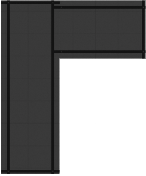
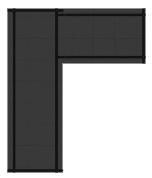
customization v5

Changed region(s): [[0.0, 0.0, 1.0, 0.9943]]

diff --git a/makeplanstyle.css b/makeplanstyle.css
@@ -70,11 +70,8 @@ p {
   border-style: solid;
   border-color: black;
   border-width: 5px;
-  height: 145mm;
-  width: 145mm;
-  background-image:
-      linear-gradient(to right, grey 1px, transparent 1px),
-      linear-gradient(to bottom, grey 1px, transparent 1px);
+  height: 140mm;
+  width: 140mm;
   border-radius: 5px;
   transition: transform 0.5s;
 
@@ -115,7 +112,7 @@ p {
   transition: background-color 0.3s;
 }
 .element-trash{
-margin-top: 298px;
+margin-top: 280px;
 margin-left: 30px;
 color: white;
 background: maroon;

diff --git a/makeplan5x5.php b/makeplan5x5.php
@@ -46,13 +46,13 @@ require_once('partials/_head.php');
                           <div class="content" id = "scroll-box" style = "display:none">
                             <div class="drag-element-source drag-element">
                               <div class="rect" style = "margin-bottom: 110px;"><img src="assets/img/items/cubicle.png" draggable="false"/>  
-                                <div class="middle desc" style = "padding-left: 130px; padding-top: 100px;"> <b>L-shape Cubicle </b> <br>200cmX185cm</div>
+                                <div class="middle desc" style = "padding-left: 110px; padding-top: 90px;"> <b>L-shape Cubicle </b> <br>200cmX185cm</div>
                               </div>
                             </div>
                 
                             <div class="drag-element-source drag-element">
-                              <div class="rect" style = "margin-left: -7px"><img src="assets/img/items/U-shaped_cubicle.png" draggable="false"/>
-                              <div class="middle desc" style = "margin-left:60px; margin-top: 80px"> <b>U-shape Cubicle </b> <br>260cmX185cm</div>
+                              <div class="rect" style = "margin-left: 2px"><img src="assets/img/items/U-shaped_cubicle.png" draggable="false"/>
+                              <div class="middle desc" style = "margin-left:45px; margin-top: 80px"> <b>U-shape Cubicle </b> <br>260cmX185cm</div>
                             </div>
                             </div>
                         </div>
@@ -68,25 +68,31 @@ require_once('partials/_head.php');
 
                             <div class="drag-element-source drag-element">
                               <div class="rect" style = "margin-top: 70px; margin-left: -3px"><img src="assets/img/items/U-table.png" draggable="false"/>
-                              <div class="middle desc" style = "margin-left: 55px; margin-top: 30px"> <b>U-shaped Table </b> <br>196cmX155cm</div>
+                              <div class="middle desc" style = "margin-left: 55px; margin-top: 30px"> <b>U-shaped Table </b> <br>195cmX155cm</div>
                             </div>
                             </div>
 
                             <div class="drag-element-source drag-element">
-                              <div class="rect" style = "margin-top: 80px; margin-left:-3px;"><img src="assets/img/items/office_table_chair.png" draggable="false"/>
-                              <div class="middle desc" style = "margin-left: 45px; margin-top: 35px"> <b>Office Table w/ Chair </b> <br>162cmX112cm</div>
-                            </div>
-                            </div>
-
-                            <div class="drag-element-source drag-element">
-                              <div class="rect" style = "margin-top: 50px; margin-left:2px;"><img src="assets/img/items/table_standard.png" draggable="false"/>
+                              <div class="rect" style = "margin-top: 90px; margin-left:2px;"><img src="assets/img/items/table_standard.png" draggable="false"/>
                               <div class="middle desc" style = "margin-left: 16px; margin-top: -19px; color: white"> <b>Standard Table</b> <br>120cmX60cm</div>
                             </div>
                             </div>
 
                             <div class="drag-element-source drag-element">
-                              <div class="rect" style = "margin-left: -2px; margin-top: -15px;"><img src="assets/img/items/computer_table.png" draggable="false"/>
-                              <div class="middle desc" style = "margin-left: 11px; margin-top: -15px;"> <b>Computer Table</b> <br>102cmX60cm</div>
+                              <div class="rect" style = "margin-left: -4px; margin-top: -15px;"><img src="assets/img/items/computer_desk.png" draggable="false"/>
+                              <div class="middle desc" style = "margin-left: 11px; margin-top: -15px;"> <b>Computer Desk</b> <br>100cmX60cm</div>
+                            </div>
+                            </div>
+
+                            <div class="drag-element-source drag-element">
+                              <div class="rect" style = "margin-left: 6px; margin-top: -15px;"><img src="assets/img/items/computer_table.png" draggable="false"/>
+                              <div class="middle desc" style = "margin-left: -8px; margin-top: -28px;"> <b>Computer Table</b> <br>80cmX55cm</div>
+                            </div>
+                            </div>
+
+                            <div class="drag-element-source drag-element">
+                              <div class="rect" style = "margin-left: 9px; margin-top: -25px;"><img src="assets/img/items/workstation.png" draggable="false"/>
+                              <div class="middle desc" style = "margin-left: 18px; margin-top: -28px;"> <b>Workstation</b> <br>140cmX60cm</div>
                             </div>
                             </div>
 
@@ -94,7 +100,7 @@ require_once('partials/_head.php');
                         </div>
 
                         <div><button class="collapsible"><b>Chairs</b></button> 
-                          <div class="content" id = "scroll-box" style = "display:none">
+                          <div class="content" id = "scroll-box" style = "display:none; height:200px">
                             <div class="drag-element-source drag-element">
                               <div class="rect" style = "margin-top: 20px; margin-left: 8px"><img src="assets/img/items/office_chair.png" draggable="false"/>
                               <div class="middle desc" style = "color:whitesmoke; margin-top: -20px; margin-left:-17px"> <b >Office Chair </b> <br>63cmX66cm</div>
@@ -118,28 +124,73 @@ require_once('partials/_head.php');
                         </div>
 
                         <div><button class="collapsible"><b>Network Equipments</b></button> 
-                          <div class="content" id = "scroll-box" style = "display:none">
+                          <div class="content" id = "scroll-box" style = "display:none; height:200px">
                             <div class="drag-element-source drag-element">
                               <div class="rect" style = "margin-top: 20px;"><img src="assets/img/items/computer.png" draggable="false"/>
                               <div class="middle desc" style = "margin-left: -5px; margin-top: -20px"> <b>Computer </b> <br>60cmX43cm</div>
                               </div>
                             </div>
+
+                            <div class="drag-element-source drag-element">
+                              <div class="rect" style = "margin-top: -25px;"><img src="assets/img/items/switch.png" draggable="false"/>
+                              <div class="middle desc" style = "margin-left: -30px; padding-left: 100px; margin-top: -27px"> <b>Switch </b> </div>
+                              </div>
+                            </div>
+
+                            <div class="drag-element-source drag-element">
+                              <div class="rect" style = "margin-top: -60px; margin-left: -3px;"><img src="assets/img/items/router.png" draggable="false"/>
+                              <div class="middle desc" style = "margin-left: -30px; padding-left: 100px; margin-top: -27px"> <b>Router </b></div>
+                              </div>
+                            </div>
+
                           </div>
                         </div>
 
                         <div><button class="collapsible"><b>Others</b></button> 
-                          <div class="content" id = "scroll-box" style = "display:none">
+                          <div class="content" id = "scroll-box" style = "display:none;">
                             <div class="drag-element-source drag-element">
                               <div class="rect" style = "margin-left: 15px; margin-top: 20px;"><img src="assets/img/items/door.png" draggable="false"/>
                               <div class="middle desc" style = "margin-left: -15px; margin-top: -18px"> <b>Door </b> <br>68cmX68cm</div>
                               </div>
                             </div>
+
+                            <div class="drag-element-source drag-element">
+                              <div class="rect" style = "margin-left: 0px; margin-top: -10px;"><img src="assets/img/items/cabinet.png" draggable="false"/>
+                              <div class="middle desc" style = "margin-left: -20px; margin-top: -18px"> <b>File Cabinet</b> <br>43cmX52cm</div>
+                              </div>
+                            </div>
+
+                            <div class="drag-element-source drag-element">
+                              <div class="rect" style = "margin-left: 0px; margin-top: -10px;"><img src="assets/img/items/cabinet2.png" draggable="false"/>
+                              <div class="middle desc" style = "margin-left: -4px; margin-top: -27px"> <b>Cupboard </b> <br>80cmX35cm</div>
+                              </div>
+                            </div>
+
+                            <div class="drag-element-source drag-element">
+                              <div class="rect" style = "margin-left: -15px; margin-top: -30px;"><img src="assets/img/items/cabinet3.png" draggable="false"/>
+                              <div class="middle desc" style = "margin-left: 20px; margin-top: -18px; color:white"> <b> File Cabinet </b> <br>99cmX56cm</div>
+                              </div>
+                            </div>
+
+                            <div class="drag-element-source drag-element">
+                              <div class="rect" style = "margin-left: 0px; margin-top: -10px;"><img src="assets/img/items/cabinet4.png" draggable="false"/>
+                              <div class="middle desc" style = "margin-left: 15px; margin-top: -20px"> <b>Office Cabinet </b> <br>117cmX53cm</div>
+                              </div>
+                            </div>
+
+                            <div class="drag-element-source drag-element">
+                              <div class="rect" style = "margin-left: 0px; margin-top: -20px;"><img src="assets/img/items/cabinet5.png" draggable="false"/>
+                              <div class="middle desc" style = "margin-left:43px; margin-top: -20px"> <b>Cabinet </b> <br>160cmX45cm</div>
+                              </div>
+                            </div>
+
+
                           </div>
                         </div>
                       </div> 
 
-                    <div class="col-md-6" id = "plane-container">
-                      <div>
+                    <div class="col-md-6">
+                      <div id = "plane-container">
                         <p>5x5</p>
                       </div>
                     </div> 

diff --git a/generateplantestt.php b/generateplantestt.php
@@ -76,7 +76,7 @@ if ($_SERVER['REQUEST_METHOD'] == 'POST') {
               <span id="netInstitutionError" style="color: red;"></span>
                 </div>
                 <div class="col-md-6">
-                <label>You can create your own!</label><br><a href = makeplan.php>
+                <label>You can create your own!</label><br><a href = makeplan5x5.php>
                 <input type="" value="Create Own Layout" class="btn btn-success" value=""></a>
                 </div>
             </div>

diff --git a/index.php b/index.php
@@ -70,6 +70,7 @@ require_once('partials/_head.php');
                 </div>
                 <div class="text-center">
                   <button type="submit" name="login" class="btn btn-primary my-4">Log In</button>
+                  <button type="submit" name="login" class="btn btn-info my-4">Sign-Up</button>
                 </div>
               </form>
 
